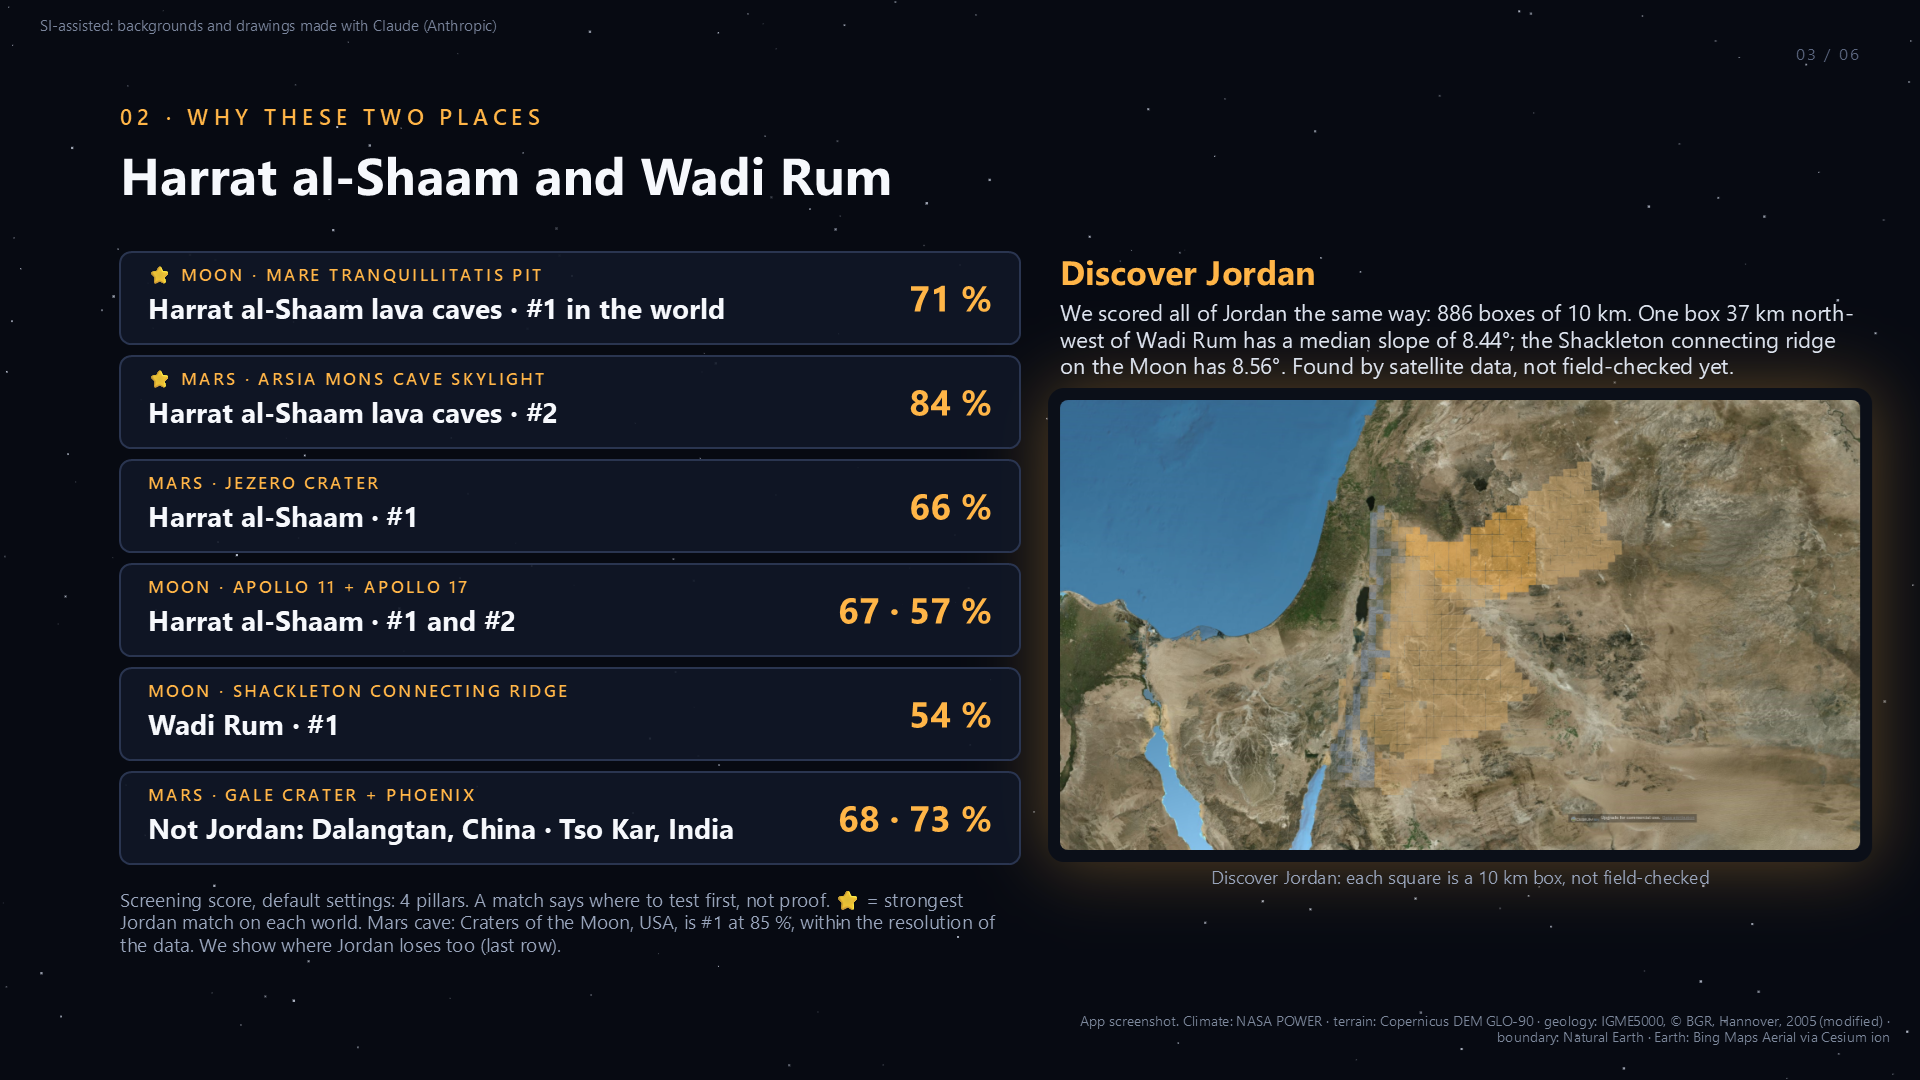
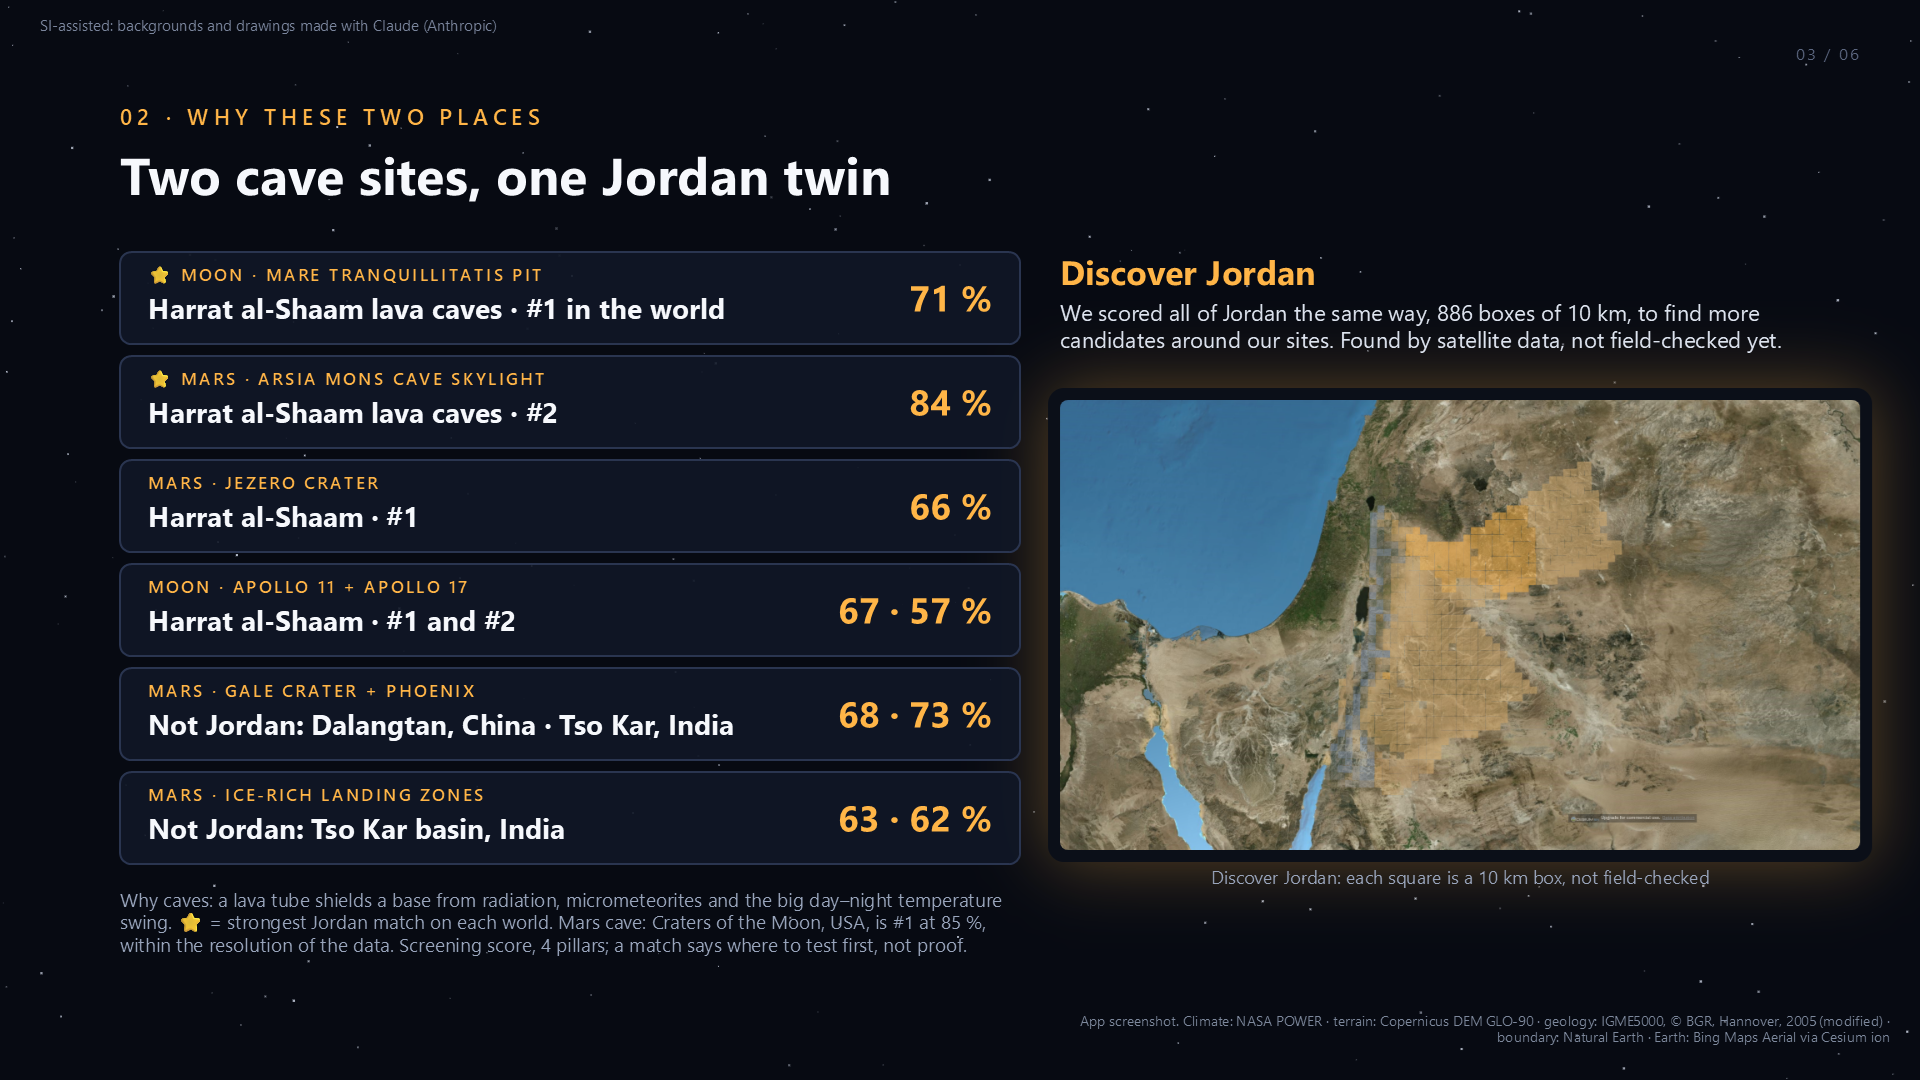
Deck slide 3: the two chosen cave sites and their Jordan twin

diff --git a/tests/index.html b/tests/index.html
@@ -1175,8 +1175,8 @@ test('docs agree with the data: test count, site/target/box counts and the short
     '⭐ MARS · ARSIA MONS CAVE SKYLIGHT': [['harrat', 'arsia-skylight']],
     'MARS · JEZERO CRATER': [['harrat', 'jezero']],
     'MOON · APOLLO 11 + APOLLO 17': [['harrat', 'apollo11'], ['harrat', 'apollo17']],
-    'MOON · SHACKLETON CONNECTING RIDGE': [['wadi-rum', 'shackleton-ridge']],
     'MARS · GALE CRATER + PHOENIX': [['qaidam-dalangtan', 'gale'], ['tso-kar-ladakh', 'phoenix']],
+    'MARS · ICE-RICH LANDING ZONES': [['tso-kar-ladakh', 'deuteronilus'], ['tso-kar-ladakh', 'erebus-montes']],
   };
   const items = deck.slides.flatMap((s) => s.items || []).filter((it) => it.type === 'row');
   for (const [tag, pairs] of Object.entries(deckRows)) {
